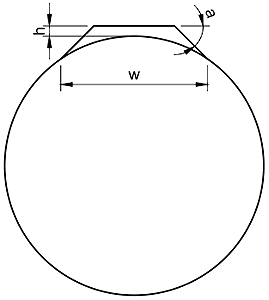
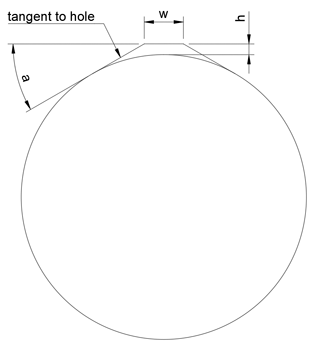
new shape for clean vertical hole

diff --git a/3d_printing/techniques.md b/3d_printing/techniques.md
@@ -43,16 +43,14 @@ Note: I do not know why I have to add this "-0.1" in perimeters_thickness. If I 
 
 Used to put more space on top of a vertical hole and avoid clean-up after printing
 
-I also wrote an OpenScad lib : https://github.com/gregsaun/vertical_hole
-
-I found this technique in Prusa OpenScad files, thanks for sharing!
+I first found this technique in Prusa OpenScad files, thanks for sharing!
 
 ![Clean Vertical Hole Diagram](img/hole_cleaning_diagram.png)
 
 Where
 * h = layer_height
-* w = hole radius
-* a = 45°
+* a = 30°
+* w = if the hole is too small, w will be equal or lower than 0. In this case I recommend to make the angle 'a' more vertical.
 
 
 ### Sharp Angle
